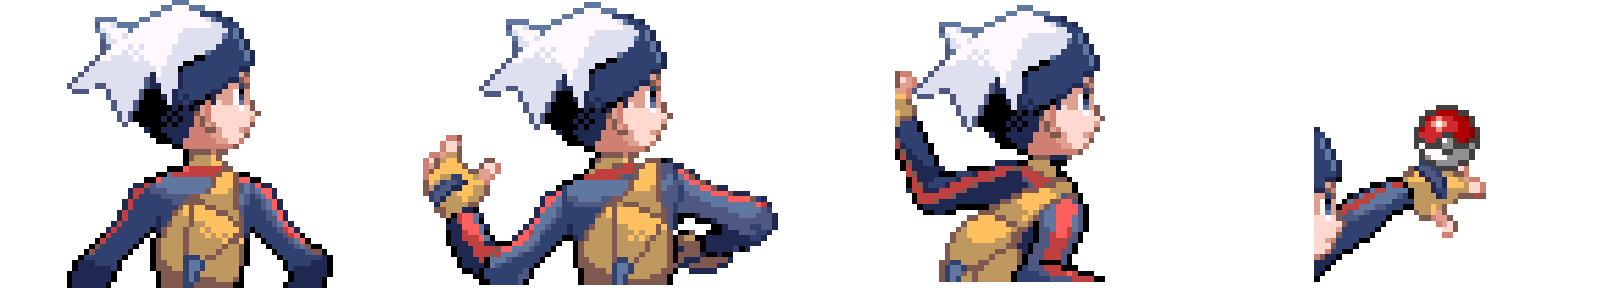
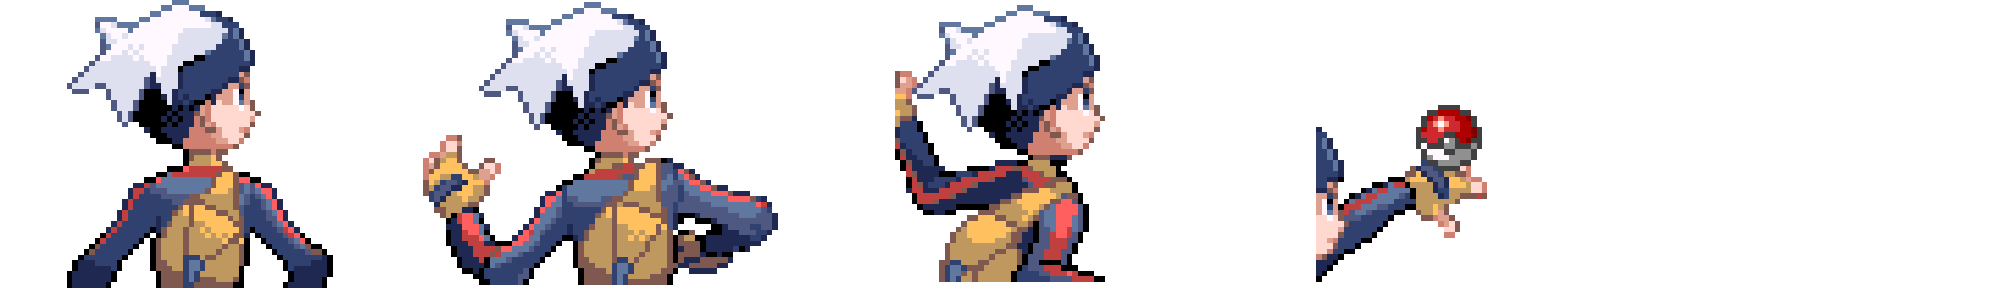
241114_z키 입력

diff --git a/PokemonRuby/PokemonProject/PokemonBattleMap.cpp b/PokemonRuby/PokemonProject/PokemonBattleMap.cpp
@@ -27,6 +27,37 @@ APokemonBattleMap::APokemonBattleMap()
 		SpriteRenderer->SetComponentLocation(Scale.Half());
 	}
 
+	{
+		PlayerPokemonShadow = CreateDefaultSubObject<USpriteRenderer>();
+		PlayerPokemonShadow->SetOrder(ERenderOrder::POKEMONSHADOW);
+		PlayerPokemonShadow->SetSprite("PlayerPokemonShadow.png");
+		FVector2D Scale = PlayerPokemonShadow->SetSpriteScale(1.0f);
+		PlayerPokemonShadow->SetComponentLocation({ 1500 , 520 }); 
+	}
+
+	{
+		EnemyPokemonShadow = CreateDefaultSubObject<USpriteRenderer>();
+		EnemyPokemonShadow->SetOrder(ERenderOrder::POKEMONSHADOW);
+		EnemyPokemonShadow->SetSprite("EnemyPokemonShadow.png");
+		FVector2D Scale = EnemyPokemonShadow->SetSpriteScale(1.0f);
+		EnemyPokemonShadow->SetComponentLocation({ -300 , 308 }); 
+	}
+
+	{
+		PlayerPokemonUI = CreateDefaultSubObject<USpriteRenderer>();
+		PlayerPokemonUI->SetOrder(ERenderOrder::POKEMONSHADOW);
+		PlayerPokemonUI->SetSprite("PlayerPokemonUI.png");
+		FVector2D Scale = PlayerPokemonUI->SetSpriteScale(1.0f);
+		PlayerPokemonUI->SetComponentLocation({ 1600 , 460 }); 
+	}
+
+	{
+		EnemyPokemonUI = CreateDefaultSubObject<USpriteRenderer>();
+		EnemyPokemonUI->SetOrder(ERenderOrder::POKEMONSHADOW);
+		EnemyPokemonUI->SetSprite("EnemyPokemonUI.png");
+		FVector2D Scale = EnemyPokemonUI->SetSpriteScale(1.0f);
+		EnemyPokemonUI->SetComponentLocation({ -400 , 166 }); 
+	}
 }
 
 APokemonBattleMap::~APokemonBattleMap()

diff --git a/PokemonRuby/PokemonProject/PokemonCore.cpp b/PokemonRuby/PokemonProject/PokemonCore.cpp
@@ -142,7 +142,7 @@ void PokemonCore::BeginPlay()
 		UImageManager::GetInst().CuttingSprite("Player_Walk_Down.png", { 48, 48 });
 		UImageManager::GetInst().CuttingSprite("Player_Walk_Right.png", { 48, 48 });
 		UImageManager::GetInst().CuttingSprite("Player_Walk_Left.png", { 48, 48 });
-		//UImageManager::GetInst().CuttingSprite("Player_Throw_MonsterBall.png", { 400, 288 });
+		UImageManager::GetInst().CuttingSprite("Player_Throw_MonsterBall.png", { 400, 288 });
 	}
 
 	
@@ -183,7 +183,7 @@ void PokemonCore::BeginPlay()
 
 
 	
-		UEngineAPICore::GetCore()->OpenLevel("PokemonBattle");
+		UEngineAPICore::GetCore()->OpenLevel("Truck");
 	
 }
 

diff --git a/PokemonRuby/PokemonProject/PokemonBattleMode.h b/PokemonRuby/PokemonProject/PokemonBattleMode.h
@@ -51,6 +51,7 @@ public:
 
 	void Tick(float _DeltaTime) override;
 
+	void SetBackGround();
 	void BattleGroundSetting();
 
 	void PokemonSetting();
@@ -58,7 +59,7 @@ public:
 	void EnemyPokemonUISetting();
 
 	void PlayerSetting();
-	void ThrowMonsterball();
+	void ThrowMonsterball(float _DeltaTime);
 	void SpawnMyPokemon();
 
 
@@ -75,6 +76,11 @@ private:
 	USpriteRenderer* EnemyPokemonShadow = nullptr;
 	USpriteRenderer* PlayerPokemonUI = nullptr;
 	USpriteRenderer* EnemyPokemonUI = nullptr;
+
+	float ThrowingTime = 0.0f;
+	float BallThrowTime = 0.005f;
+
+	bool IsThrow = false;
 
 };
 
